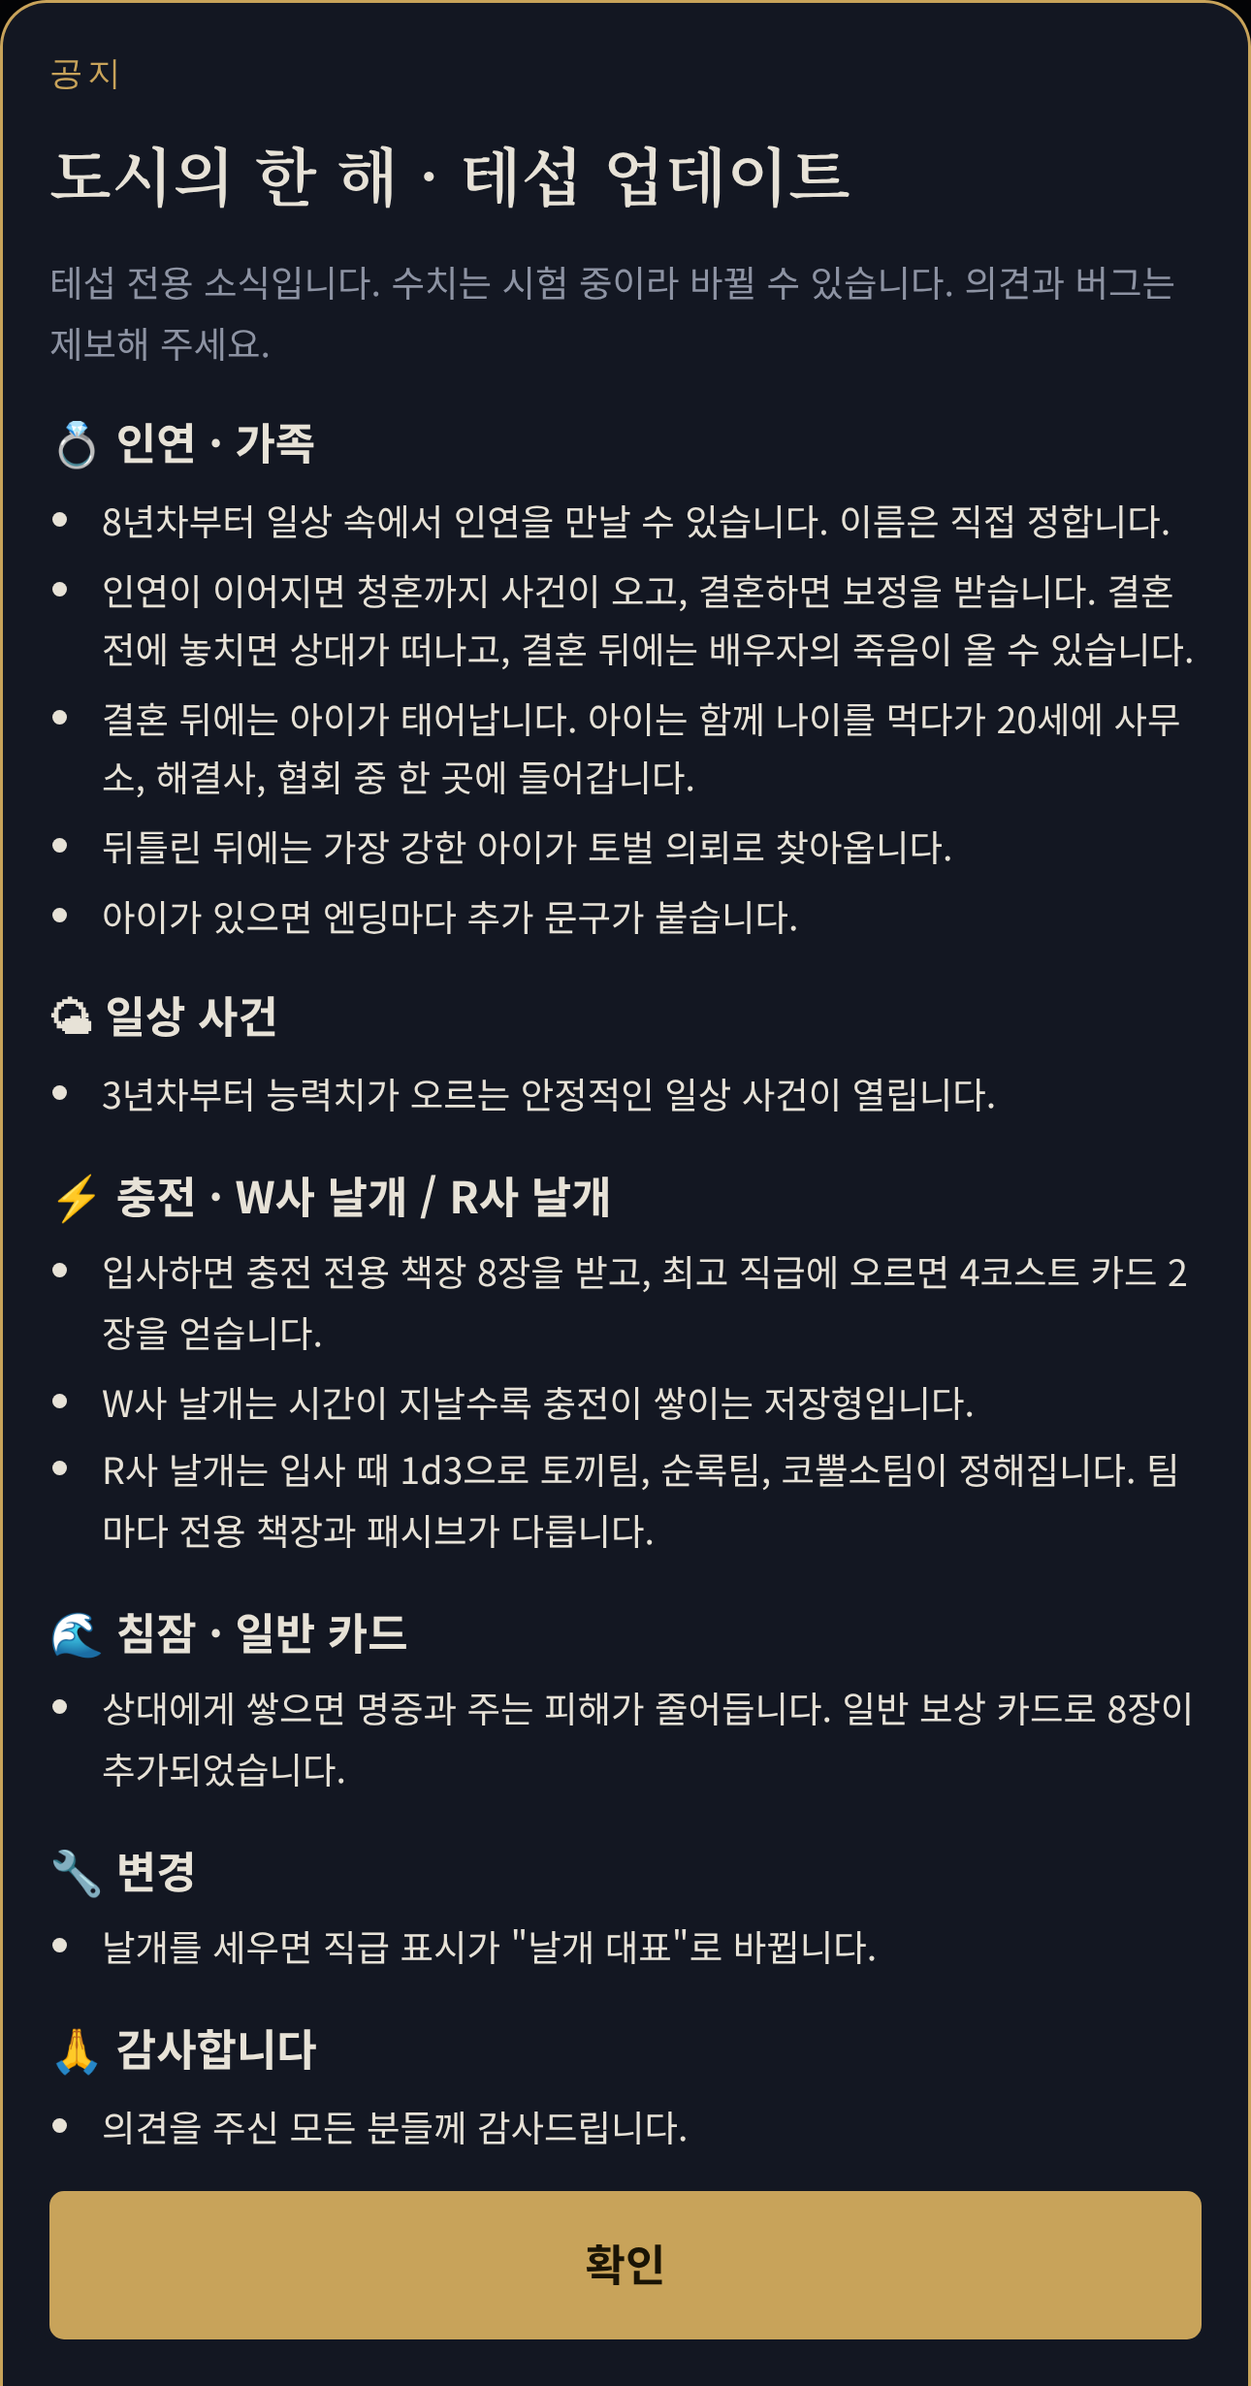
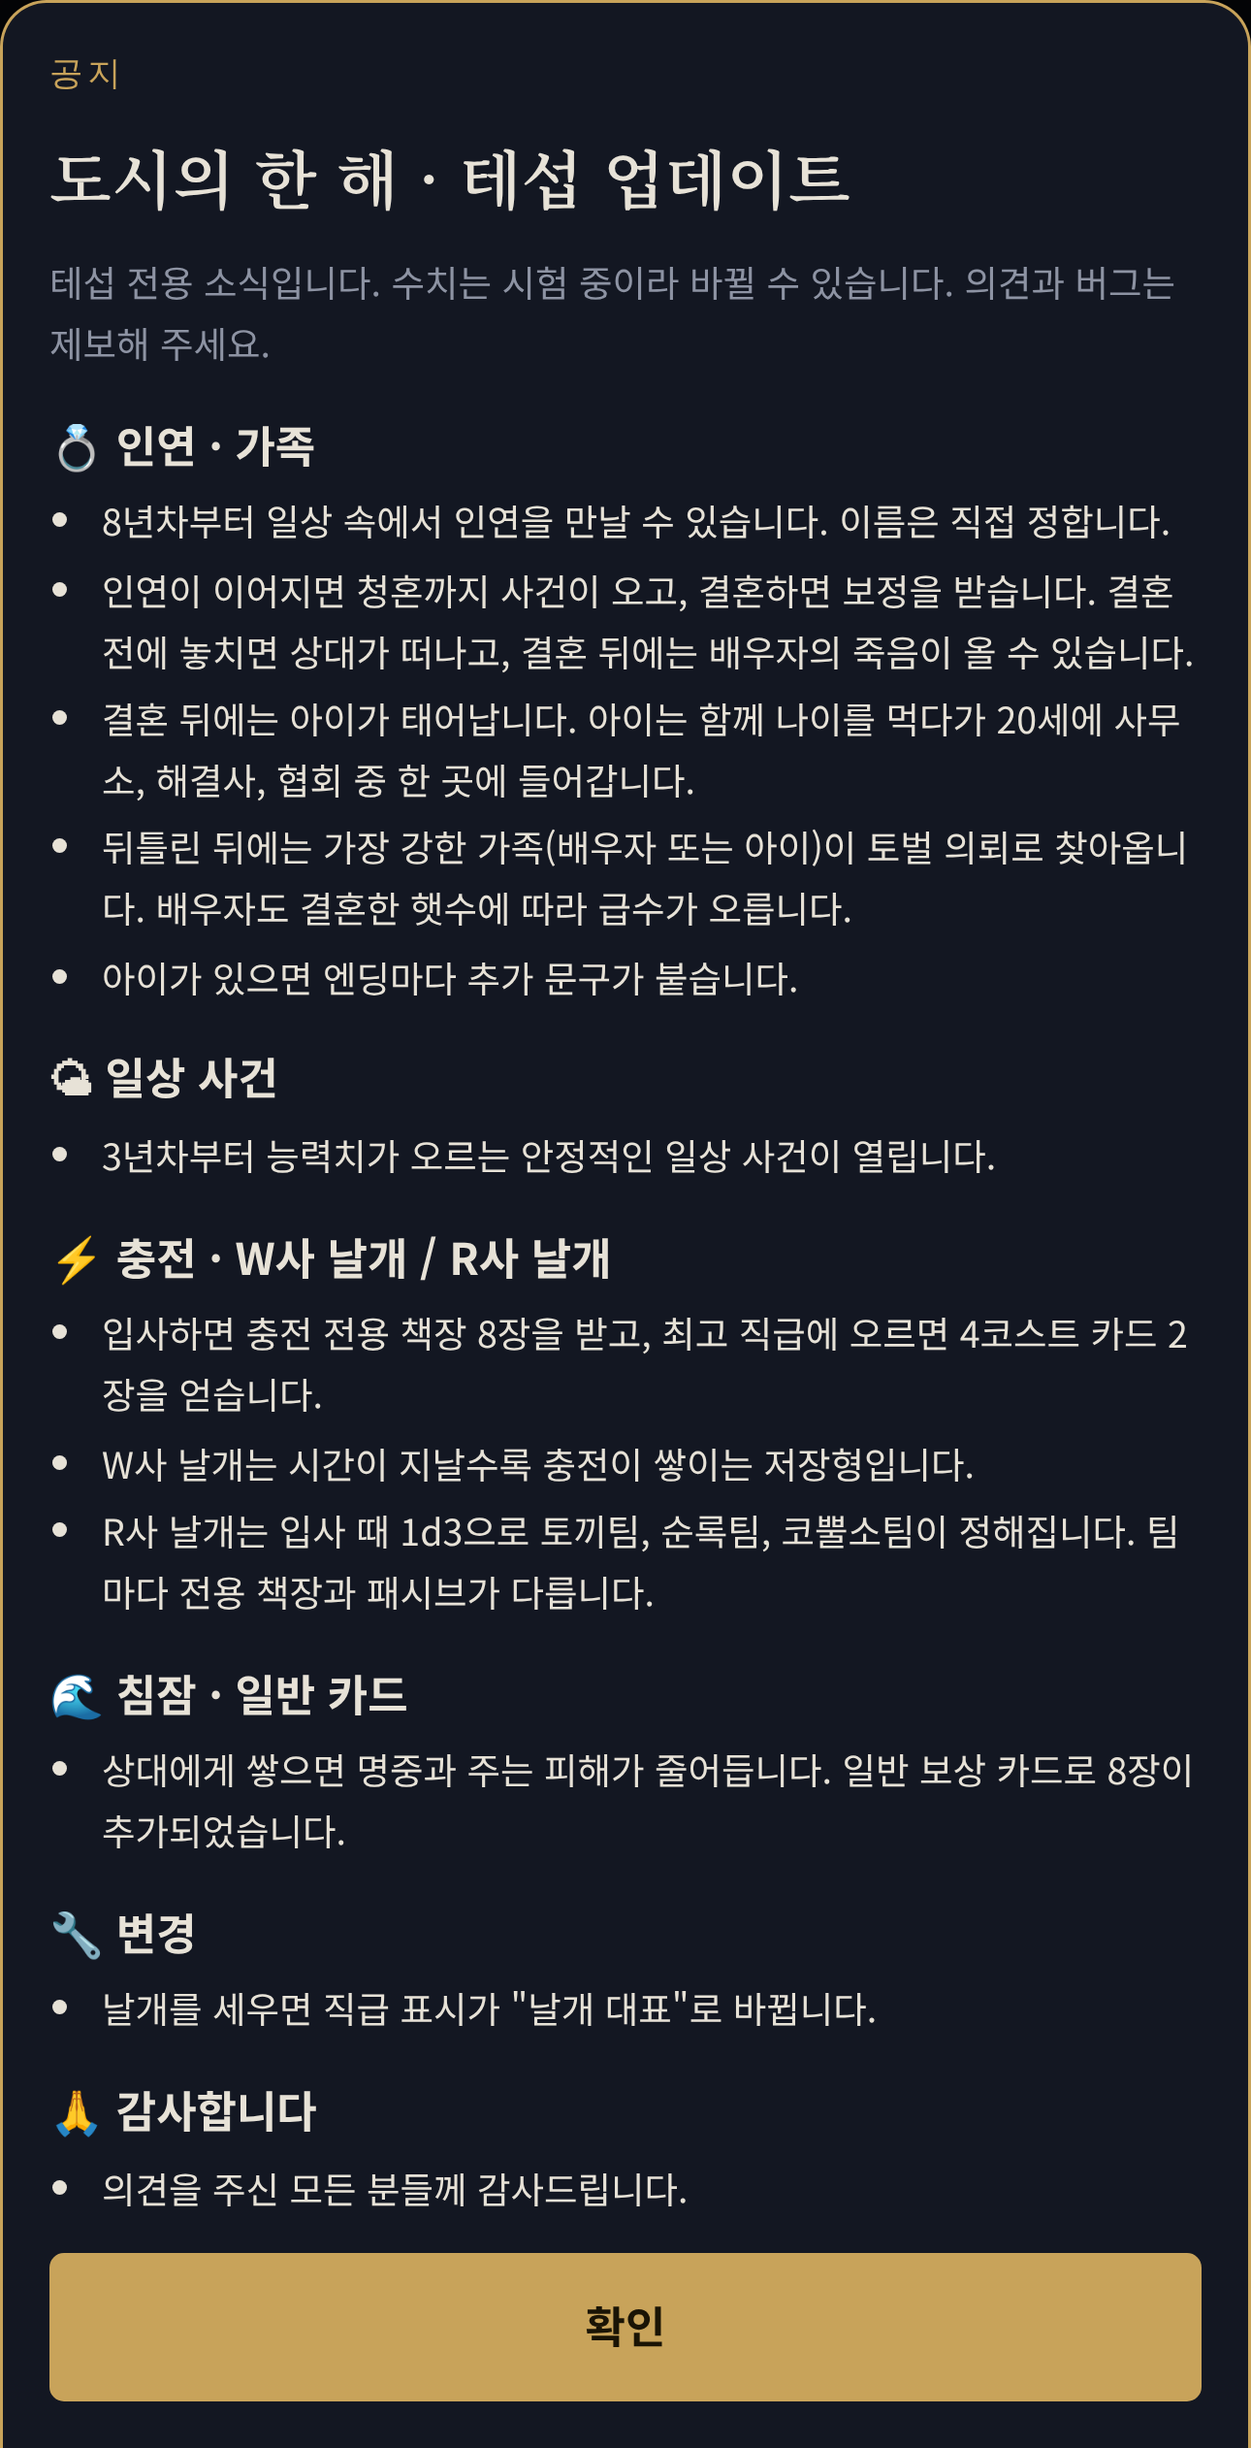
뒤틀린 뒤 배우자도 토벌 의뢰로 온다: 배우자 급수(루트별 시작 + 결혼 3년마다 +1), 가장 강한 가족이 찾아옴 (bond-dev · 본섭 금지)
Claude-Session: https://claude.ai/code/session_0129mVL4gjhd4gQcmxGXW23v

diff --git a/src/engine.js b/src/engine.js
@@ -725,21 +725,24 @@ export function createEngine(D,{rng:rng0=Math.random}={}){
   const kf=(t,n)=>bondFill(String(t).replace(/\{k\}/g,'{n}'),{name:n});
   const kidWord=b=>(b.kids||[]).length>1?'자식들':'자식';
   const kidAge=(k,y)=>Math.max(0,(y||0)-k.born);
-  /* 토벌 의뢰: 성인이 된 아이 중 가장 강한 아이 (level 0~8, 급수 = 9 − level) */
+  /* 토벌 의뢰: 결혼 중인 배우자와 성인이 된 아이 중 가장 강한 가족 (level 0~8, 급수 = 9 − level). 배우자는 결혼한 햇수가 지날수록 급수가 오른다 */
   const kidLevel=(k,y)=>Math.min(8,Math.floor((kidAge(k,y)-BD.kid.adult)/BD.hunt.years)+(BD.hunt.job[k.job]||0));
-  function kidHunter(ch,y){
-    const ks=((ch.bond&&ch.bond.kids)||[]).filter(k=>!k.dead&&kidAge(k,y)>=BD.kid.adult);
-    return ks.reduce((a,k)=>!a||kidLevel(k,y)>kidLevel(a,y)?k:a,null);
+  const spouseLevel=(b,y)=>Math.min(8,(BD.hunt.spouse[b.route]??1)+Math.floor(Math.max(0,(y||0)-(b.since||0))/BD.hunt.spouseYears));
+  function familyHunter(ch,y){
+    const b=ch.bond;if(!b)return null;
+    const cs=(b.kids||[]).filter(k=>!k.dead&&kidAge(k,y)>=BD.kid.adult).map(k=>({n:k.n,job:k.job,lv:kidLevel(k,y),kid:k}));
+    if(b.st==='married')cs.push({n:b.name,job:BD.hunt.spouseJob[b.route]||'fixer',lv:spouseLevel(b,y),spouse:true});
+    return cs.reduce((a,c)=>!a||c.lv>a.lv?c:a,null);
   }
   function kidHuntEvent(G){
     const ch=G.ch,y=G.year;if(!ch.distForm||(y<(ch.huntNext||0)))return null;
-    const k=kidHunter(ch,y);if(!k)return null;
+    const k=familyHunter(ch,y);if(!k)return null;
     ch.huntNext=y+BD.hunt.gap;if(d(100)>BD.hunt.chance)return null;
-    const H=D.bond.hunt,Lv=Math.max(0,kidLevel(k,y)),e=D.enemies.kid_hunt,Z=BD.hunt;
-    const jb=H.jobs[k.job]||'';ch.kidFoe=k.n;
+    const H=D.bond.hunt,Lv=Math.max(0,k.lv),e=D.enemies.kid_hunt,Z=BD.hunt;
+    const jb=k.spouse?'배우자':(H.jobs[k.job]||'');ch.kidFoe=k.n;ch.kidFoeSpouse=!!k.spouse;
     e.n=`${k.n} · ${jb} ${9-Lv}급`;e.hp=56+Lv*Z.hp;e.atk=3+Lv*Z.atk;e.eva=2+Lv*Z.eva;e.spd=5+Lv*Z.spd;
     e.deck=k.job==='fixer'?['lunge','a_maw','guard','lunge']:k.job==='assoc'?['a_maw','lunge','a_maw','guard']:['lunge','guard','lunge','guard'];
-    e.intro=kf(H.intro,k.n).replace('{j}',`${jb} ${9-Lv}급`);
+    e.intro=kf(k.spouse?H.introSpouse:H.intro,k.n).replace('{j}',`${jb} ${9-Lv}급`);
     return {type:'fight',enemy:'kid_hunt',enc:{id:'kid_hunt',roll:null,table:null,label:'토벌 의뢰'}};
   }
   /* 청혼: roll이면 1dN을 굴려 성공 범위면 결혼, 아니면 기회 1회 소모 (기회를 다 쓰면 인연이 끝난다) */
@@ -1056,7 +1059,9 @@ export function createEngine(D,{rng:rng0=Math.random}={}){
     const ch=G.ch,chips=[];
     ch.hp=clamp(C.P.hp+CFG.winHeal,1,ch.stats.maxHp);chips.push('HP +'+CFG.winHeal);
     if(ch.infinite&&C.id===CFG.endless.final)ch.infImp=(ch.infImp||1)+1;
-    if(C.id==='kid_hunt'&&ch.bond){const kk=(ch.bond.kids||[]).find(k=>k.n===ch.kidFoe&&!k.dead);if(kk){kk.dead=true;chips.push(kf(D.bond.hunt.win,kk.n))}}
+    if(C.id==='kid_hunt'&&ch.bond){
+      if(ch.kidFoeSpouse){if(ch.bond.st==='married'){ch.bond.st='lost';chips.push(kf(D.bond.hunt.winSpouse,ch.bond.name))}}
+      else{const kk=(ch.bond.kids||[]).find(k=>k.n===ch.kidFoe&&!k.dead);if(kk){kk.dead=true;chips.push(kf(D.bond.hunt.win,kk.n))}}}
     if(ch.flags&&ch.flags.redMist){const h=Math.min(CFG.redMist.heal,ch.stats.maxHp-ch.hp);if(h>0){ch.hp+=h;chips.push('붉은 안개 · 적을 쓰러뜨려 HP +'+h)}}
     addCard(ch,rewardCard(ch),chips,null,true);
     const bounty=earn(ch,D.money.bounty[D.enemies[C.id].tier]||0);if(bounty){ch.money+=bounty;chips.push('현상금 +'+money(bounty))}
@@ -1579,5 +1584,5 @@ export function createEngine(D,{rng:rng0=Math.random}={}){
 
   return {D,d,reseed,sample,newChar,setColor,license,promote,rankLabel,applyFx,xpNext,gainXp,rollGrowth,
     isFinger,canFingerUp,giveRelic,relicChance,acceptPack,declinePack,bonItem,bonNeed,bonUpgrade,egoItem,egoLvFor,isN,deckMax,setSing,setWing,setPill,pillStats,renameForm,singNameErr,wingNameErr,corpType,singChips,mindMax,offerGear,canFound,officeNameErr,setOffice,officeBroker,officeCards,OKW,resolveGear,takeOffer,dropOffer,deckOut,deckIn,sideDrop,autoOffers,cardBox,boxPool,deckRoom,relicChoices,applyGrowth,earn,priceOf,sellStash,sellValue,isWs,equip,equipStash,shopAccess,canBuy,buy,canBuySpecial,buySpecial,income,money,encounter,answerOmen,meets,newGame,age,advanceYear,options,checkMod,pathMod,choose,winRewards,
-    isFounder,kidHunter,bondFill,bondData,setTri,triOk,bondNameErr,setBondName,bondMarried,nameErr,swapCard,tuneGear,tuneCost,aidCount,buyAid,critPct,lastYear,gradeAt,gradeRaw,checkDie,setDistort,cardGrade,loseMind,gainMind,mindTier,egoNameErr,setEgo,delCard,promoNeed,examReady,checkDc,canPromote,ptsName,career,fixedSpec,mkCombat,newRound,queue,autoPick,resolveRound,aiPlan,autoPlay,snap,fightAuto,chainSim,simulate};
+    isFounder,familyHunter,spouseLevel,bondFill,bondData,setTri,triOk,bondNameErr,setBondName,bondMarried,nameErr,swapCard,tuneGear,tuneCost,aidCount,buyAid,critPct,lastYear,gradeAt,gradeRaw,checkDie,setDistort,cardGrade,loseMind,gainMind,mindTier,egoNameErr,setEgo,delCard,promoNeed,examReady,checkDc,canPromote,ptsName,career,fixedSpec,mkCombat,newRound,queue,autoPick,resolveRound,aiPlan,autoPlay,snap,fightAuto,chainSim,simulate};
 }

diff --git a/src/ui.js b/src/ui.js
@@ -874,6 +874,7 @@ export function startUI(E,app){
     const rows=[];
     if(st==='married'){
       rows.push(['결혼한 해',b.since+'년차']);
+      rows.push(['배우자 등급',`${9-E.spouseLevel(b,G.year)}급 (결혼 ${BDc.hunt.spouseYears}년마다 한 단계)`]);
       rows.push(['보정',`최대 HP +${BDc.marry.maxHp} · 최대 정신력 +${BDc.marry.mindMax} · 사건 판정 +${BDc.marry.check}`]);
       rows.push(['해마다',`정신력 +${BDc.yearMind}`]);
       rows.push(['가족의 목소리',b.saved?'이미 한 번 붙잡아 주었다':`정신력이 1이 되면 한 번 붙잡아 준다 (정신력 ${BDc.saveMind})`]);
@@ -1040,9 +1041,10 @@ export function startUI(E,app){
   }
   /* 아이가 있으면 엔딩마다 한 문단이 붙는다: 뒤틀림사(도시가 기억하지 못함) · 쓰러짐 · 살아냄, 1막·2막·무한 모드별 */
   function kinLine(c,w,dt){
-    const b=c.bond,kids=(b&&b.kids||[]).filter(k=>!k.dead);if(!kids.length||!D.bond.ending)return '';
+    const b=c.bond,kids=(b&&b.kids||[]).filter(k=>!k.dead);if(!D.bond.ending)return '';
+    if(!w&&dt&&dt.hunt)return `<p class="small" style="border-left:2px solid var(--gold);padding-left:10px">${esc(E.bondFill(D.bond.hunt.ending[G.infinite?'inf':G.endless?'act2':'act1'].replace(/\{k\}/g,'{n}'),{name:dt.hunt}))}</p>`;
+    if(!kids.length)return '';
     const X=D.bond.ending,ph=G.infinite?'inf':G.endless?'act2':'act1',forgot=!w&&(c.distForm||(dt&&dt.cause==='distort'));
-    if(!w&&dt&&dt.hunt)return `<p class="small" style="border-left:2px solid var(--gold);padding-left:10px">${esc(E.bondFill(D.bond.hunt.ending[ph].replace(/\{k\}/g,'{n}'),{name:dt.hunt}))}</p>`;
     const t=forgot?X.forgotten[ph]:w?(UI.oldEnd?X.win.old:X.win[ph]):X.death[ph];
     return t?`<p class="small" style="border-left:2px solid var(--gold);padding-left:10px">${esc(t).replace(/\{k\}/g,kids.length>1?'자식들':'자식')}</p>`:'';
   }

diff --git a/src/config.js b/src/config.js
@@ -120,7 +120,9 @@ export const CFG = {
     /* 결혼 뒤: dieFrom년이 지나면 해마다 dieChance% 배우자가 세상을 떠난다(최대 정신력 −lossMind). 아이: kid.from년 뒤부터 해마다 chance%, 최대 max명, 간격 gap년, 태어나면 최대 정신력 +mind. adult살이 되면 사무소·해결사·협회 중 한 곳에 들어간다 */
     dieFrom: 15, dieChance: 2, kid: {from: 5, chance: 22, max: 2, gap: 3, mind: 2, adult: 20},
     /* 뒤틀린 뒤: 성인이 된 아이가 있으면 gap년마다 chance%로 토벌 의뢰가 온다. 여럿이면 가장 강한 아이(등급)가 온다. 등급 = 20세 이후 2년마다 +1(최대 8) + 직업 가산 */
-    hunt: {gap: 3, chance: 45, years: 2, job: {office: 0, assoc: 1, fixer: 2}, hp: 10, atk: 1, eva: 1, spd: 1}},
+    hunt: {gap: 3, chance: 45, years: 2, job: {office: 0, assoc: 1, fixer: 2}, hp: 10, atk: 1, eva: 1, spd: 1,
+      /* 배우자 급수: 만난 루트별 시작 level + 결혼 spouseYears년마다 +1 (최대 8) */
+      spouse: {office: 0, assoc: 1, wing: 1, finger: 2, hyeolgwi: 3, east: 1}, spouseYears: 3, spouseJob: {office: 'office', assoc: 'assoc', wing: 'assoc', finger: 'fixer', hyeolgwi: 'fixer', east: 'fixer'}}},
   /* 충전(자신에게 쌓는 스택): 카드의 spend만큼 소모해 소모한 1당 fixPer의 고정 피해(피해 감소 무시, 보호막은 깎임)를 적중마다 더한다. 라운드가 바뀌어도 줄지 않고, 맞으면 loss만큼 준다.
      소속별 규칙(orgs): cap 상한, round 라운드 시작마다 +n, hit 적중마다 +n, loss 피격 시 −n */
   /* 침잠(상대에게 쌓는 스택): per스택마다 한 단계, 단계마다 침잠 걸린 쪽의 명중 −hit · 주는 피해 −dmg. 라운드마다 1 감소 */

diff --git a/docs/guide.md b/docs/guide.md
@@ -439,6 +439,7 @@
 | 분노의 시종 | 보스 | 52 | 4 | 3 | 5 | 맹목적인 분노, 맹목적인 분노, 내려치기, 방어 태세 | 400 | 2.1% |
 | 여왕벌 | 보스 | 54 | 4 | 3 | 3 | 포자, 포자, 찌르기, 방어 태세 | 400 | 2.5% |
 | 징벌 새 | 보스 | 64 | 4 | 3 | 4 | 징벌의 부리질, 징벌의 부리질, 징벌, 방어 태세 | 400 | 5.2% |
+| 토벌 대상 | 보스 | 56 | 3 | 2 | 5 | 삼키는 아가리, 돌진, 삼키는 아가리, 방어 태세 | 400 | 46.6% |
 
 \* 성장 없는 무작위 캐릭터가 카드를 무작위로 낼 때의 승률(보수적인 값).
 
@@ -486,38 +487,38 @@
 
 ## 11. 밸런스 현황
 
-연속 3전(초반 표 → 중반 표 → 보스): 72.0% · 레벨 업과 보상 카드 반영 시 79.0%.
+연속 3전(초반 표 → 중반 표 → 보스): 72.7% · 레벨 업과 보상 카드 반영 시 78.2%.
 
 무작위 진행 6,000판 (`npm run check`):
 
 ```
-참조 검사 통과 · 카드 320 · 적 114 · 사건 57 · 출신 10
-진행 검사 통과 · 6000판 · 완주 727 / 사망 5273
+참조 검사 통과 · 카드 320 · 적 115 · 사건 57 · 출신 10
+진행 검사 통과 · 6000판 · 완주 1007 / 사망 4993
 
 출신별 결과 (해결사 = 등록 비율, 나머지 = 최종 소속)
 출신　　　　　　　　　　해결사　　사무소　　　협회　　　날개　　손가락공방 해결사소속 없음
-날개 직원 집안　　   54%   34%    5%   31%    9%    1%   20%  (740판)
-몰락한 가문　　　　   71%   52%    3%   11%   13%    1%   19%  (545판)
-도서관의 손님　　　   74%   50%    3%   12%    9%    1%   25%  (381판)
-평범한 둥지 시민　   67%   44%    5%   12%   14%    1%   24%  (874판)
-조직 출신　　　　　   51%   36%    4%    8%   36%    1%   15%  (770판)
-뒷골목 태생　　　　   73%   52%    4%   10%   11%    1%   21%  (873판)
-둥지 노동자　　　　   74%   57%    5%   10%   12%    1%   15%  (803판)
-외곽 생존자　　　　   78%   52%    9%   10%    9%    1%   18%  (714판)
-동부 출신 외곽 생존자   76%   58%   10%   15%    9%    0%    8%  (79판)
-보냐텔리 가문　　　   45%   40%    0%   12%   36%    0%   12%  (58판)
-유물 적성자　　　　   72%   50%    5%    8%   12%    7%   18%  (60판)
-E.G.O 발현자　   81%   65%   13%    6%   13%    0%    4%  (48판)
-혈귀　　　　　　　　   82%   62%    5%    5%    9%    0%   18%  (55판)
+날개 직원 집안　　   55%   36%    4%   27%   10%    1%   21%  (825판)
+몰락한 가문　　　　   69%   49%    5%   12%   13%    3%   18%  (491판)
+보냐텔리 가문　　　   55%   43%    2%   12%   32%    2%   10%  (60판)
+도서관의 손님　　　   73%   45%    5%    9%   10%    2%   30%  (379판)
+뒷골목 태생　　　　   71%   51%    3%    9%   14%    2%   21%  (840판)
+외곽 생존자　　　　   78%   55%    6%    9%   12%    2%   16%  (730판)
+평범한 둥지 시민　   71%   45%    5%   10%   13%    2%   24%  (851판)
+조직 출신　　　　　   53%   35%    4%    7%   35%    1%   19%  (747판)
+둥지 노동자　　　　   73%   52%    6%   11%   11%    2%   19%  (838판)
+E.G.O 발현자　   91%   69%   18%    6%    3%    0%    4%  (67판)
+혈귀　　　　　　　　   67%   55%    3%    9%   16%    3%   14%  (64판)
+동부 출신 외곽 생존자   72%   57%    9%   17%   11%    0%    6%  (47판)
+유물 적성자　　　　   80%   46%   11%    5%    7%    0%   31%  (61판)
 
-소속 분포 · 소속 없음 19% · 사무소 47% · 날개 13% · 협회 5% · 공방 해결사 1% · 손가락 15%
-최종 급수 · 1급 1% · 2급 5% · 3급 8% · 4급 5% · 5급 8% · 6급 11% · 7급 10% · 8급 6% · 9급 14% · 미등록 32% · 특색 25명
-공방 · 마지막 접근 등급 뒷골목 공방 19% · 협력 공방 52% · 명장 공방 29% · 구매 1등급 20383 / 2등급 12917 / 3등급 4939 · 끝날 때 자산 중앙값 2,500안
-손가락 최종 서열 · 검지 대행자 1 · 검지 수행자 231 · 검지 전령 2 · 약지 도슨트 57 · 약지 마에스트로 1 · 약지 학생 162 · 엄지 소토카포 6 · 엄지 솔다토 78 · 엄지 카포 134 · 중지 동생 102 · 중지 막내 33 · 중지 큰형님 4 · 중지 형님 64
-소지 표식 · 524명 (윤 사무소+소지 132 · 가로등 사무소+소지 53 · 갈고리 사무소+소지 46 · 약지+소지 29 · 중지+소지 29 · W사 날개+소지 28)
+소속 분포 · 소속 없음 20% · 손가락 15% · 사무소 46% · 협회 5% · 날개 12% · 공방 해결사 2%
+최종 급수 · 1급 0% · 2급 6% · 3급 11% · 4급 5% · 5급 9% · 6급 9% · 7급 9% · 8급 5% · 9급 14% · 미등록 32% · 특색 12명
+공방 · 마지막 접근 등급 뒷골목 공방 20% · 협력 공방 47% · 명장 공방 33% · 구매 1등급 20441 / 2등급 12894 / 3등급 5703 · 끝날 때 자산 중앙값 2,885안
+손가락 최종 서열 · 검지 수행자 231 · 약지 도슨트 61 · 약지 학생 144 · 엄지 소토카포 7 · 엄지 솔다토 71 · 엄지 카포 167 · 중지 동생 88 · 중지 막내 35 · 중지 형님 92
+소지 표식 · 427명 (윤 사무소+소지 78 · 중지+소지 43 · 가로등 사무소+소지 36 · 약지+소지 33 · 갈고리 사무소+소지 31 · 검지+소지 29)
 7년차를 3급 이상으로 맞은 판 · 0
-불길한 예감 · 맞섬 1262 / 돌아섬 1238 (무작위 선택)
-히든 보스 (만남/승리) · 도서관의 사서 263/1 · 검지 대행자 128/0 · 푸른 잔향 113/1 · 홍원 군주 208/9 · 신체파 도슨트 아라야 345/1 · 발톱 39/1 · 뇌횡 113/0 · 검은 침묵 77/0 · 조율자 1/0 · 라만차랜드의 신부 6/1 · 종말새 7/0 · 엄지의 대부 1/1 · 중지의 큰누님 1/1
+불길한 예감 · 맞섬 1399 / 돌아섬 1353 (무작위 선택)
+히든 보스 (만남/승리) · 도서관의 사서 211/1 · 푸른 잔향 172/0 · 홍원 군주 190/6 · 검지 대행자 126/0 · 뇌횡 147/0 · 신체파 도슨트 아라야 427/5 · 검은 침묵 104/0 · 발톱 59/3 · 라만차랜드의 신부 14/0 · 조율자 4/3 · 중지의 큰누님 3/3 · 엄지의 대부 1/1 · 종말새 3/0 · 침묵의 오케스트라 1/0
 한 번도 안 나온 사건 · 도시의 소리, 집행 의뢰, 균형의 보고
 ```
 
